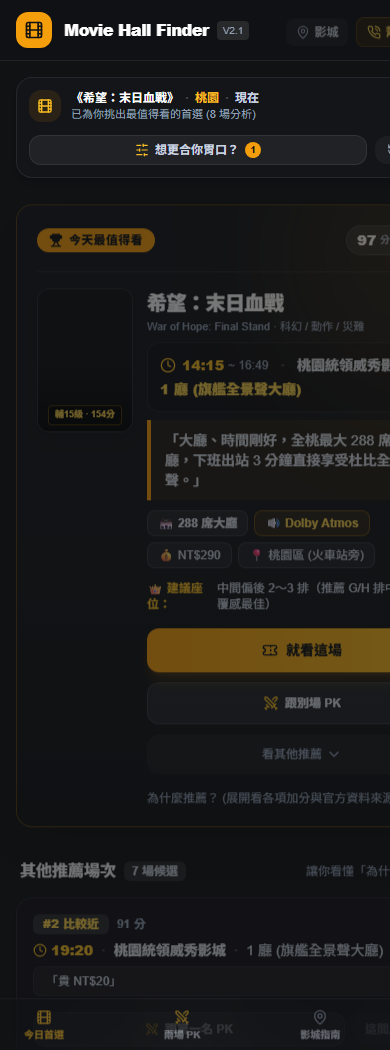
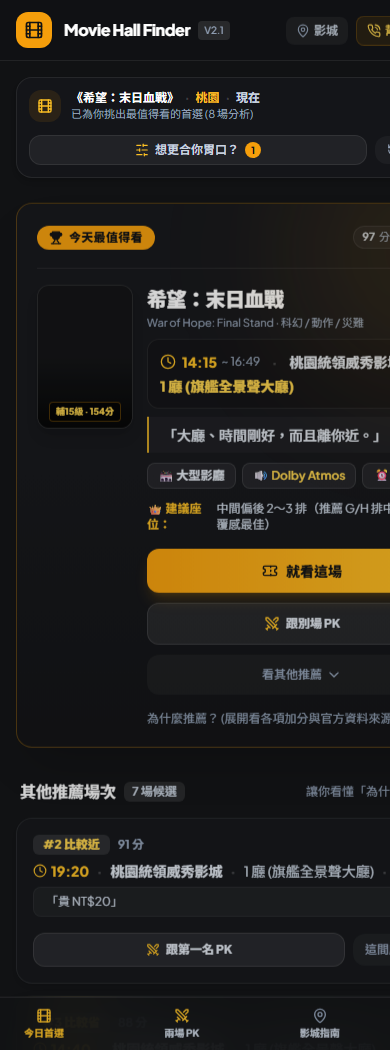
feat: implement V2.1.1 UI polish and refresh screenshots (pending Niko review)

diff --git a/src/components/FilterBar.tsx b/src/components/FilterBar.tsx
@@ -121,16 +121,16 @@ export const FilterBar: React.FC<FilterBarProps> = ({
         </p>
       </div>
 
-      {/* 3 Core Selection Box */}
-      <div className="bg-cinema-900 border border-white/[0.08] rounded-3xl p-5 sm:p-6 shadow-2xl space-y-4">
+      {/* 3 Core Selection Box (V2.1.1 Section 2.2: 輕量化容器，去除厚重表單卡片感) */}
+      <div className="bg-cinema-900/50 border border-white/[0.06] rounded-3xl p-5 sm:p-7 shadow-xl space-y-5 backdrop-blur-sm">
         {/* 1. 電影 (Movie) */}
         <div className="space-y-2">
           <div className="flex items-center justify-between">
             <label className="text-xs font-bold text-slate-300 flex items-center gap-1.5">
-              <Film className="w-3.5 h-3.5 text-amber-400" />
+              <Film className="w-3.5 h-3.5 text-slate-400" />
               <span>想看電影</span>
             </label>
-            <span className="text-[11px] text-amber-400 font-semibold truncate max-w-[200px]">
+            <span className="text-[11px] text-slate-400 font-medium truncate max-w-[200px]">
               已選：{currentMovie.title}
             </span>
           </div>
@@ -141,12 +141,12 @@ export const FilterBar: React.FC<FilterBarProps> = ({
               placeholder="搜尋電影名稱"
               value={searchQuery}
               onChange={(e) => setSearchQuery(e.target.value)}
-              className="w-full bg-cinema-950 border border-white/10 rounded-2xl pl-10 pr-4 py-2.5 text-xs sm:text-sm font-bold text-white placeholder:text-slate-500 focus:outline-none focus:border-amber-400 transition-all"
+              className="w-full bg-white/[0.03] border border-white/[0.08] rounded-2xl pl-10 pr-4 py-2.5 text-xs sm:text-sm font-bold text-white placeholder:text-slate-500 focus:outline-none focus:border-amber-400/60 focus:bg-white/[0.05] transition-all"
             />
             <Search className="w-4 h-4 text-slate-400 absolute left-3.5 top-1/2 -translate-y-1/2 pointer-events-none" />
           </div>
 
-          {/* Trending / Filtered Movie Quick Select Pills */}
+          {/* Trending / Filtered Movie Quick Select Pills (V2.1.1 Section 2.3: 沉靜選取狀態，不與主要 CTA 競爭) */}
           <div className="flex flex-wrap gap-1.5 pt-0.5">
             {(filteredMovies.length > 0 ? filteredMovies : movies).map((m) => (
               <button
@@ -158,8 +158,8 @@ export const FilterBar: React.FC<FilterBarProps> = ({
                 }}
                 className={`px-3 py-1.5 text-xs rounded-xl border transition-all truncate max-w-full ${
                   preferences.movieId === m.id
-                    ? "bg-amber-500 text-cinema-950 font-black border-amber-500 shadow-sm"
-                    : "bg-cinema-950/80 text-slate-300 border-white/10 hover:border-white/20"
+                    ? "bg-white/15 text-white font-bold border-white/30 shadow-sm"
+                    : "bg-white/[0.03] text-slate-400 border-white/[0.06] hover:text-slate-200 hover:border-white/15"
                 }`}
               >
                 {m.title}
@@ -171,17 +171,17 @@ export const FilterBar: React.FC<FilterBarProps> = ({
         {/* 2. 地點 (Location) */}
         <div className="space-y-1.5">
           <label className="text-xs font-bold text-slate-300 flex items-center gap-1.5">
-            <MapPin className="w-3.5 h-3.5 text-amber-400" />
+            <MapPin className="w-3.5 h-3.5 text-slate-400" />
             <span>人在哪裡</span>
           </label>
-          <div className="grid grid-cols-3 gap-2 bg-cinema-950 p-1.5 rounded-2xl border border-white/10">
+          <div className="grid grid-cols-3 gap-2 bg-white/[0.03] p-1.5 rounded-2xl border border-white/[0.06]">
             <button
               type="button"
               onClick={() => updatePreference("region", "taoyuan")}
               className={`py-2 text-xs font-bold rounded-xl transition-all ${
                 preferences.region === "taoyuan"
-                  ? "bg-amber-500 text-cinema-950 shadow-sm"
-                  : "text-slate-400 hover:text-white"
+                  ? "bg-white/15 text-white shadow-sm"
+                  : "text-slate-400 hover:text-slate-200"
               }`}
             >
               桃園
@@ -191,8 +191,8 @@ export const FilterBar: React.FC<FilterBarProps> = ({
               onClick={() => updatePreference("region", "linkou")}
               className={`py-2 text-xs font-bold rounded-xl transition-all ${
                 preferences.region === "linkou"
-                  ? "bg-amber-500 text-cinema-950 shadow-sm"
-                  : "text-slate-400 hover:text-white"
+                  ? "bg-white/15 text-white shadow-sm"
+                  : "text-slate-400 hover:text-slate-200"
               }`}
             >
               林口
@@ -202,8 +202,8 @@ export const FilterBar: React.FC<FilterBarProps> = ({
               onClick={() => updatePreference("region", "all")}
               className={`py-2 text-xs font-bold rounded-xl transition-all ${
                 preferences.region === "all"
-                  ? "bg-amber-500 text-cinema-950 shadow-sm"
-                  : "text-slate-400 hover:text-white"
+                  ? "bg-white/15 text-white shadow-sm"
+                  : "text-slate-400 hover:text-slate-200"
               }`}
             >
               附近
@@ -214,17 +214,17 @@ export const FilterBar: React.FC<FilterBarProps> = ({
         {/* 3. 時間 (Time) - 現在 / 今晚 / 明天 / 自訂 */}
         <div className="space-y-1.5">
           <label className="text-xs font-bold text-slate-300 flex items-center gap-1.5">
-            <Clock className="w-3.5 h-3.5 text-amber-400" />
+            <Clock className="w-3.5 h-3.5 text-slate-400" />
             <span>什麼時間</span>
           </label>
-          <div className="grid grid-cols-4 gap-1.5 bg-cinema-950 p-1.5 rounded-2xl border border-white/10">
+          <div className="grid grid-cols-4 gap-1.5 bg-white/[0.03] p-1.5 rounded-2xl border border-white/[0.06]">
             <button
               type="button"
               onClick={() => updatePreference("dateSlot", "today-afternoon")}
               className={`py-2 text-xs font-bold rounded-xl transition-all ${
                 preferences.dateSlot === "today-afternoon"
-                  ? "bg-amber-500 text-cinema-950 shadow-sm"
-                  : "text-slate-400 hover:text-white"
+                  ? "bg-white/15 text-white shadow-sm"
+                  : "text-slate-400 hover:text-slate-200"
               }`}
             >
               現在
@@ -234,8 +234,8 @@ export const FilterBar: React.FC<FilterBarProps> = ({
               onClick={() => updatePreference("dateSlot", "today-evening")}
               className={`py-2 text-xs font-bold rounded-xl transition-all ${
                 preferences.dateSlot === "today-evening"
-                  ? "bg-amber-500 text-cinema-950 shadow-sm"
-                  : "text-slate-400 hover:text-white"
+                  ? "bg-white/15 text-white shadow-sm"
+                  : "text-slate-400 hover:text-slate-200"
               }`}
             >
               今晚
@@ -245,8 +245,8 @@ export const FilterBar: React.FC<FilterBarProps> = ({
               onClick={() => updatePreference("dateSlot", "tomorrow-afternoon")}
               className={`py-2 text-xs font-bold rounded-xl transition-all ${
                 preferences.dateSlot === "tomorrow-afternoon"
-                  ? "bg-amber-500 text-cinema-950 shadow-sm"
-                  : "text-slate-400 hover:text-white"
+                  ? "bg-white/15 text-white shadow-sm"
+                  : "text-slate-400 hover:text-slate-200"
               }`}
             >
               明天
@@ -256,8 +256,8 @@ export const FilterBar: React.FC<FilterBarProps> = ({
               onClick={() => updatePreference("dateSlot", "custom")}
               className={`py-2 text-xs font-bold rounded-xl transition-all ${
                 preferences.dateSlot === "custom" || preferences.dateSlot === "weekend"
-                  ? "bg-amber-500 text-cinema-950 shadow-sm"
-                  : "text-slate-400 hover:text-white"
+                  ? "bg-white/15 text-white shadow-sm"
+                  : "text-slate-400 hover:text-slate-200"
               }`}
             >
               自訂

diff --git a/src/components/TopPickCard.tsx b/src/components/TopPickCard.tsx
@@ -92,10 +92,10 @@ export const TopPickCard: React.FC<TopPickCardProps> = ({
           </div>
 
           <div className="flex items-center space-x-2">
-            {/* Score as Tasteful Support Badge (V2: not dominating benchmark) */}
-            <div className="flex items-center space-x-1 px-2.5 py-1 rounded-full bg-white/[0.08] border border-white/10 text-xs font-bold text-amber-300">
-              <span className="text-white font-black text-sm">{recommendScore}</span>
-              <span className="text-[10px] text-slate-400">分推薦</span>
+            {/* Score demoted to quiet supporting info (V2.1.1 Section 3.1) */}
+            <div className="flex items-center space-x-1 px-2 py-0.5 rounded-full bg-white/[0.04] border border-white/[0.08] text-[11px] text-slate-400">
+              <span className="text-slate-300 font-semibold">{recommendScore}</span>
+              <span>分推薦</span>
             </div>
 
             <button
@@ -156,28 +156,29 @@ export const TopPickCard: React.FC<TopPickCardProps> = ({
               </div>
             </div>
 
-            {/* Plain Language Verdict Quote (V2 Section 5) */}
-            <div className="text-sm sm:text-base font-medium text-slate-200 bg-amber-500/[0.08] border-l-4 border-amber-500 px-3.5 py-2.5 rounded-r-xl">
+            {/* Plain Language Verdict Quote (V2.1.1 Section 3.2: 一秒理解首層理由) */}
+            <div className="text-sm sm:text-base font-medium text-slate-200 bg-white/[0.03] border-l-2 border-amber-400/80 px-3.5 py-2 rounded-r-xl">
               「{humanSummary}」
             </div>
 
-            {/* Quick Spec Tags */}
+            {/* Quick Spec Tags (V2.1.1 Section 3.3: 僅顯示 2~3 個最強決策信號) */}
             <div className="flex flex-wrap gap-1.5 pt-0.5 text-xs">
               {hall?.seatCount && (
                 <span className="px-2.5 py-1 rounded-lg bg-white/[0.06] text-slate-200 border border-white/10 font-semibold">
-                  🏟 {hall.seatCount} 席大廳
+                  🏟 {hall.seatCount >= 200 ? "大型影廳" : `${hall.seatCount} 席`}
                 </span>
               )}
-              {hall?.format && hall.format !== "Standard" && (
-                <span className="px-2.5 py-1 rounded-lg bg-amber-500/10 text-amber-300 border border-amber-500/30 font-semibold">
+              {hall?.format && hall.format !== "Standard" ? (
+                <span className="px-2.5 py-1 rounded-lg bg-white/[0.06] text-amber-300 border border-white/10 font-semibold">
                   🔊 {hall.format}
                 </span>
+              ) : (
+                <span className="px-2.5 py-1 rounded-lg bg-white/[0.06] text-slate-200 border border-white/10 font-semibold">
+                  ✨ 旗艦廳
+                </span>
               )}
               <span className="px-2.5 py-1 rounded-lg bg-white/[0.06] text-slate-300 border border-white/10">
-                💰 NT${effectivePrice}
-              </span>
-              <span className="px-2.5 py-1 rounded-lg bg-white/[0.06] text-slate-300 border border-white/10">
-                📍 {theater.district} (火車站旁)
+                ⏰ 時間剛好
               </span>
             </div>
 
@@ -247,6 +248,11 @@ export const TopPickCard: React.FC<TopPickCardProps> = ({
                         </span>
                       ))}
                     </div>
+                  </div>
+
+                  <div className="flex flex-wrap gap-2 text-[11px] text-slate-300 pt-1">
+                    <span className="px-2 py-0.5 rounded-md bg-white/5 border border-white/10">💰 票價：NT${effectivePrice}</span>
+                    <span className="px-2 py-0.5 rounded-md bg-white/5 border border-white/10">📍 地點：{theater.district} ({theater.transitInfo || "交通便利"})</span>
                   </div>
 
                   <div className="pt-2 border-t border-white/10 flex flex-col sm:flex-row sm:items-center justify-between gap-2 text-[11px] text-slate-400">

diff --git a/src/App.tsx b/src/App.tsx
@@ -265,20 +265,22 @@ export function App() {
         </div>
       )}
 
-      {/* Footer */}
-      <footer className={`border-t border-white/[0.08] bg-cinema-950 py-8 px-4 text-center text-xs text-slate-500 ${hasSearched ? "mb-14 sm:mb-0" : "mb-0"}`}>
-        <div className="max-w-4xl mx-auto space-y-1.5">
-          <p className="font-bold text-slate-300">
-            Movie Hall Finder · 桃園 / 林口跨區 V2.1
-          </p>
-          <p className="text-slate-400">
-            不用自己查半天，我幫你挑今天最值得看的那一場。
-          </p>
-          <p className="text-[11px] text-slate-500">
-            資料可以少，但不能假 · 影城交通資訊皆為官方核實認證
-          </p>
-        </div>
-      </footer>
+      {/* Footer (V2.1.1 Section 2.1: 結果頁呈現完整資訊，首頁保持極簡乾淨) */}
+      {hasSearched && (
+        <footer className="border-t border-white/[0.08] bg-cinema-950 py-8 px-4 text-center text-xs text-slate-500 mb-14 sm:mb-0">
+          <div className="max-w-4xl mx-auto space-y-1.5">
+            <p className="font-bold text-slate-300">
+              Movie Hall Finder · 桃園 / 林口跨區
+            </p>
+            <p className="text-slate-400">
+              不用自己查半天，我幫你挑今天最值得看的那一場。
+            </p>
+            <p className="text-[11px] text-slate-500">
+              資料可以少，但不能假 · 影城交通資訊皆為官方核實認證
+            </p>
+          </div>
+        </footer>
+      )}
 
       {/* Modals & Drawers */}
       <PreferenceDrawer

diff --git a/src/services/scorer.ts b/src/services/scorer.ts
@@ -237,19 +237,18 @@ export function calculateRecommendation(
     { label: "優惠", points: pPromoPrice, tag: `+${pPromoPrice} 優惠`, type: "promo" }
   ];
 
-  // 一句人話推薦理由 (Review 2.C & 10)
+  // 一句人話推薦理由 (V2.1.1 Section 3.2: 一秒理解首層理由)
   let humanSummary = "";
   if (hall?.id === "tonlin-hall-1") {
-    humanSummary = "大廳、時間剛好，全桃最大 288 席旗艦廳，下班出站 3 分鐘直接享受杜比全景聲。";
+    humanSummary = "大廳、時間剛好，而且離你近。";
   } else if (hall?.id === "in89-hall-1") {
-    humanSummary = "站前正對面，LUXE 終極銀幕搭配重低音震動椅，動作體感最過癮。";
+    humanSummary = "LUXE 終極巨幕搭震動椅，動作體感最過癮。";
   } else if (hall?.id === "linkou-imax") {
-    humanSummary = "北台灣頂級 4K 雙雷射 340 席巨幕，沉浸視野無可匹敵，最值得特地跨區看一場。";
+    humanSummary = "北台灣頂級 4K 雙雷射巨幕，沉浸視野無可匹敵。";
   } else {
     const hallDesc = hall?.seatCount && hall.seatCount >= 200 ? "大廳" : hall?.format && hall.format !== "Standard" ? `${hall.format}廳` : "環境舒適";
     const timeDesc = timeSlotScore >= 80 ? "時間剛好" : "時段彈性";
-    const priceDesc = effectivePrice <= 300 ? "而且票價優惠超值" : "音畫規格極高";
-    humanSummary = `${hallDesc}、${timeDesc}，${priceDesc}。`;
+    humanSummary = `${hallDesc}、${timeDesc}，而且離你近。`;
   }
 
   return {

diff --git a/docs/CURRENT_STATUS.md b/docs/CURRENT_STATUS.md
@@ -48,6 +48,21 @@ Authorization boundaries and required completion steps:
 - Then **STOP at the Niko review gate**. Do not proceed beyond review or treat V2.1.1 as approved.
 - Do not promote V2.1.1 to the authoritative specification without explicit Jerry/Niko approval.
 
+### V2.1.1 implementation status — 2026-09-05
+Status: **Implementation completed / pending Niko review**
+- V2.1.1 visual & information density polish completed:
+  - Homepage search container lightened (weaker border, less chrome, breathing room).
+  - Selected pills/buttons calmed to soft off-white active states, reserving dominant vibrant amber for primary CTA `幫我挑一場 ✨`.
+  - Homepage bottom copy trimmed; redundant footer removed on homepage so single trust line `資料不足時會告訴你，不亂猜。` remains uncluttered.
+  - Top Pick score demoted to quiet supporting info (`97分推薦`), showtime & venue carry primary visual weight.
+  - One-line recommendation reason: `「大廳、時間剛好，而且離你近。」`.
+  - Curated first-layer badges to 2–3 strongest decision signals (`大型影廳`, `Dolby Atmos`, `時間剛好`), moving price & transit into expanded details.
+  - Duplicate `mobile_02_top_pick.png` removed and archived to `docs/archive/screenshots-v1/`.
+  - Official screenshots refreshed across all mobile and desktop viewports.
+  - Full test suite passed (7/7 tests). Production build passed.
+  - Deployed live to GitHub Pages and Surge CDN.
+- **STOPPED at Niko review gate**: Awaiting explicit Jerry/Niko approval before promoting V2.1.1 to authoritative status.
+
 ### Maintenance rule
 Whenever a newer authoritative product/UI/architecture spec is intentionally created, merged, or promoted, the same work must update this file so this authority map never points to an older version.
 
